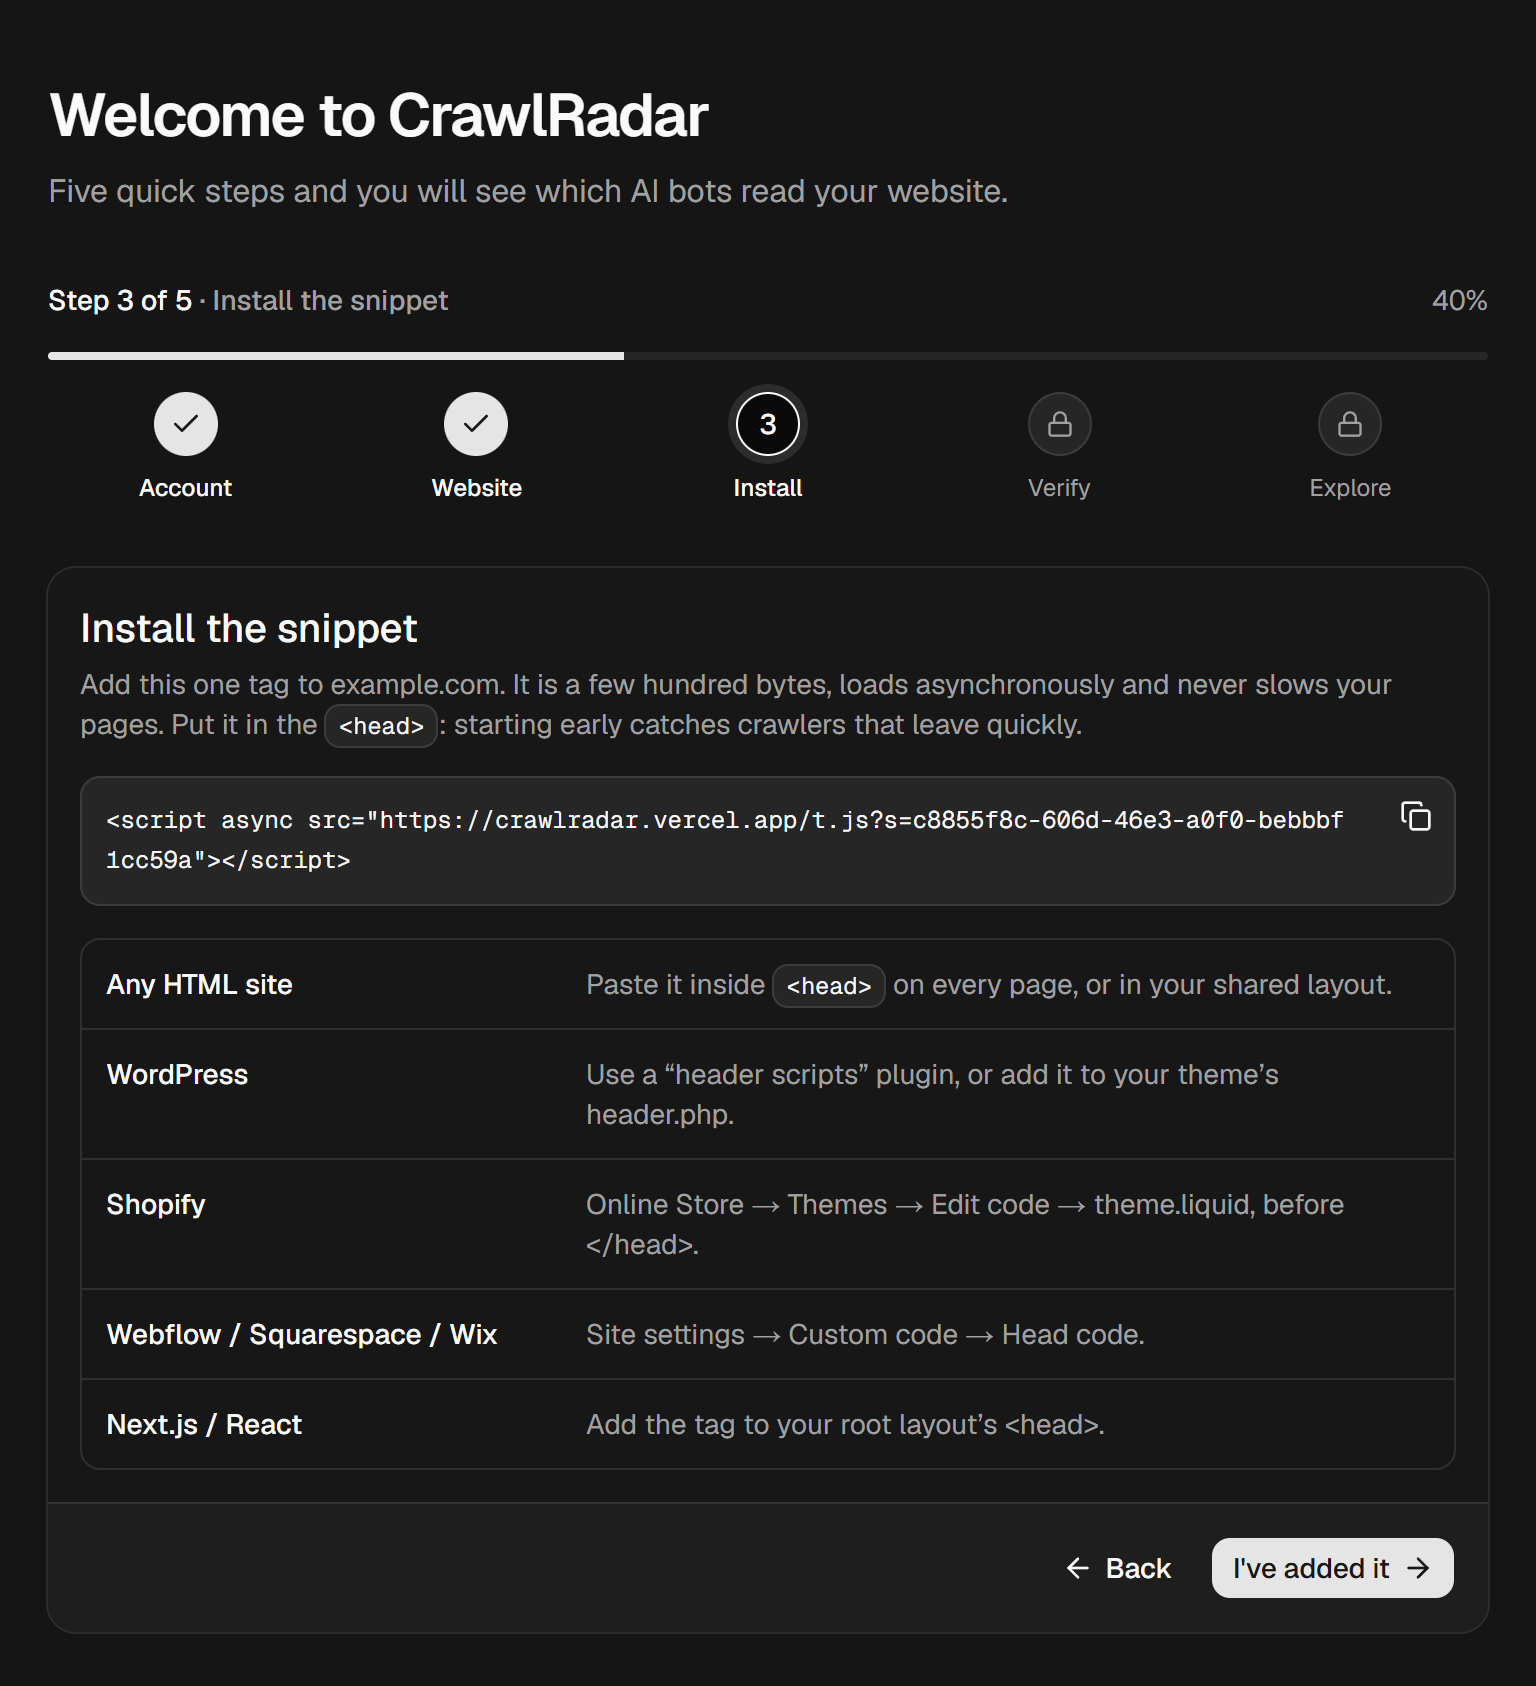
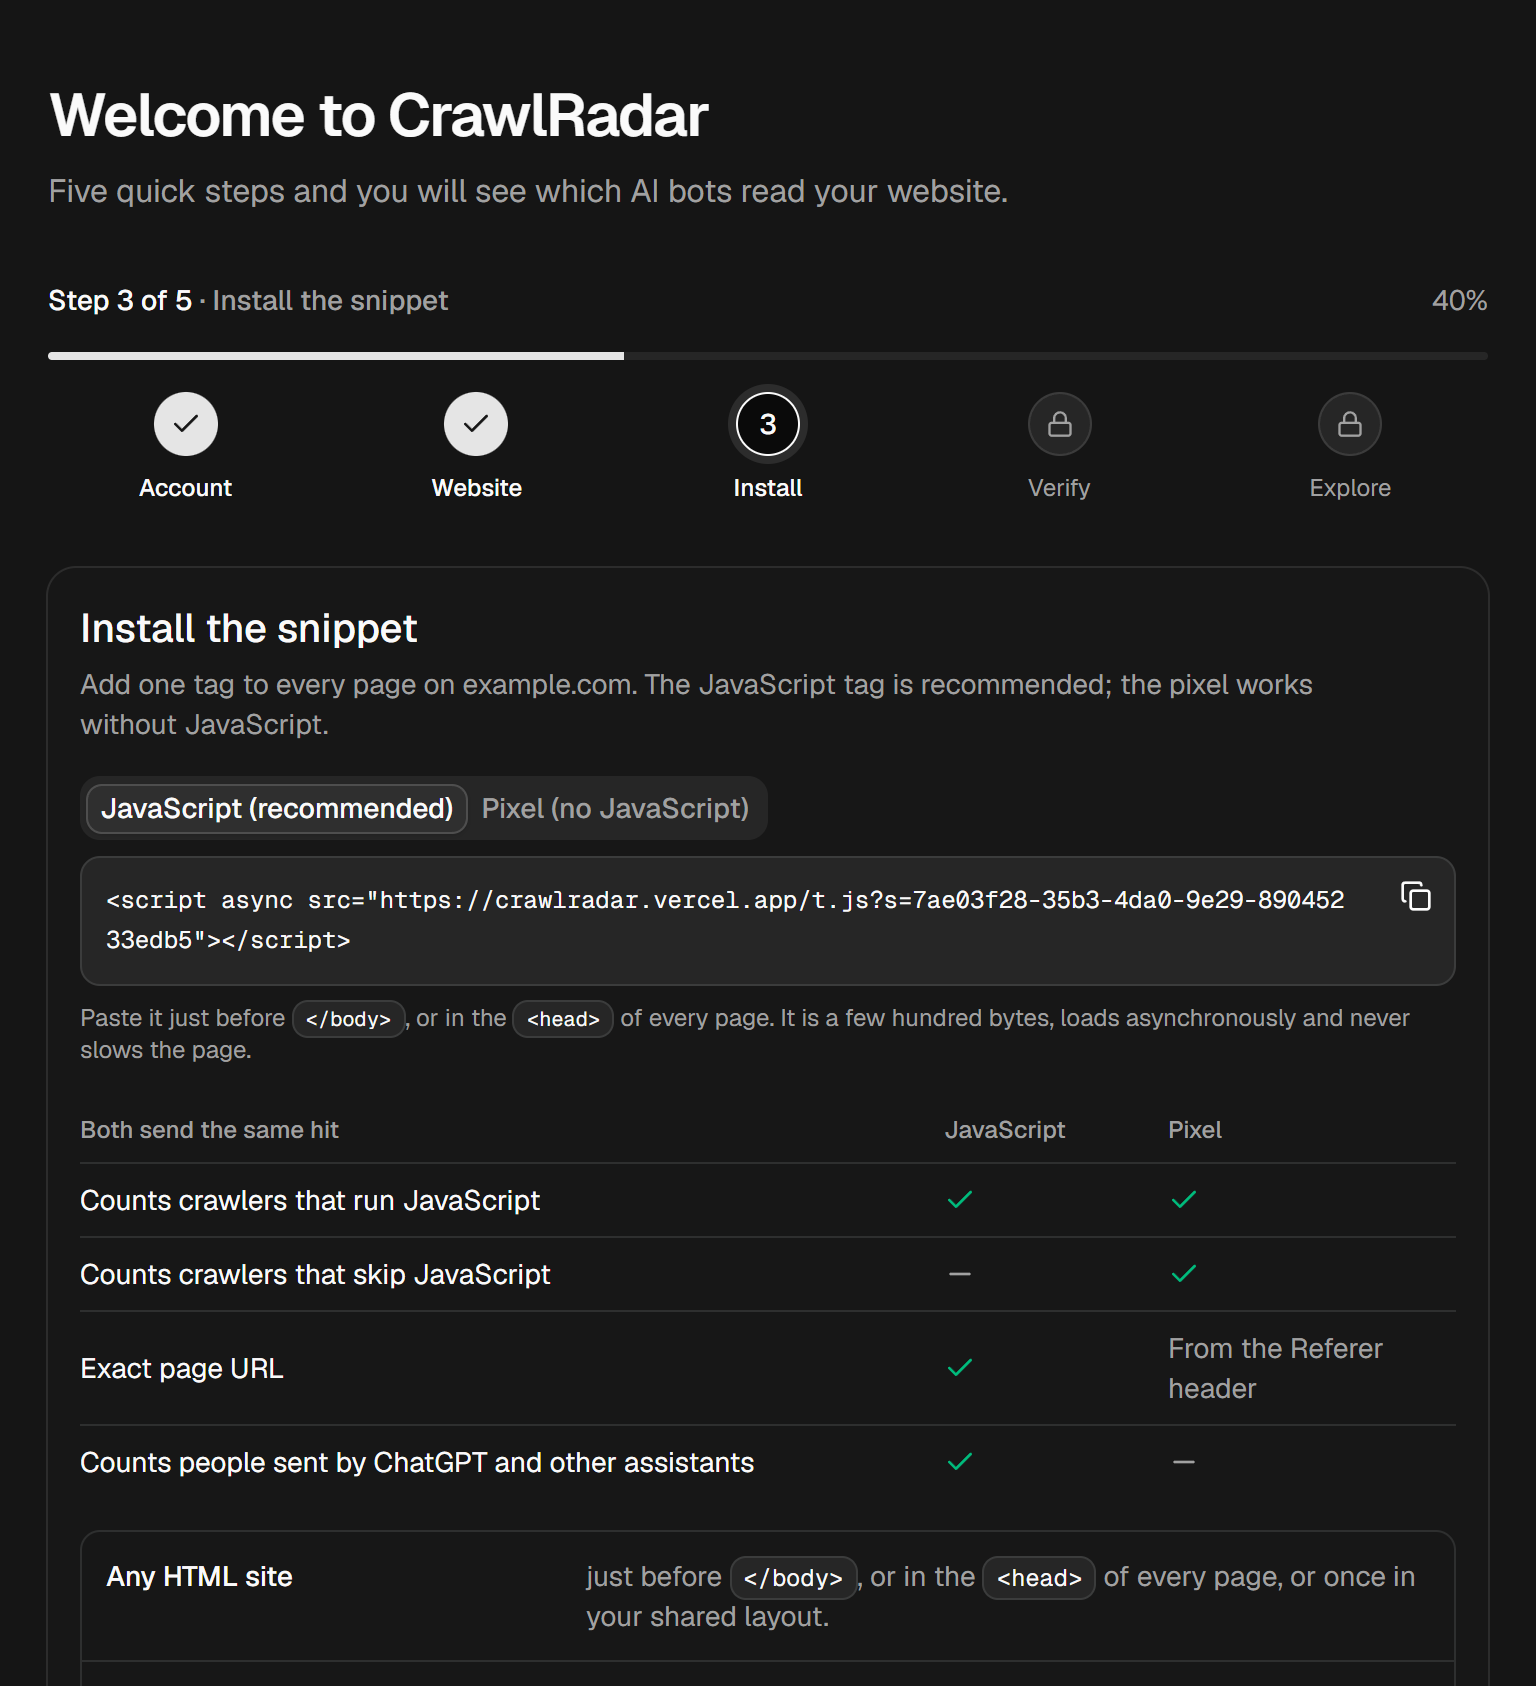
docs: two install methods, placement, endless log, new screenshots

diff --git a/README.md b/README.md
@@ -27,7 +27,7 @@ Regular analytics tools filter bots out. But AI platforms now read the web aroun
 
 ## Features
 
-- **One-line install.** A single async `<script>` tag served from your own CrawlRadar domain. The tracker is about 400 bytes and never blocks the page. An optional `<noscript>` pixel also counts crawlers that don't run JavaScript.
+- **One-line install, two ways.** An async `<script>` tag (about 400 bytes, never blocks the page) or a plain pixel for sites and crawlers without JavaScript. Paste it just before `</body>`, or in the `<head>`.
 - **Guided onboarding.** Five locked steps (account, website, install, verify, explore) with a progress tracker and install tips for WordPress, Shopify, Webflow and frameworks. The dashboard unlocks once the snippet is seen working.
 - **Every AI crawler, classified.** 60+ AI bots grouped by platform and purpose (training, search, assistant), cross-checked with the community [ai.robots.txt](https://github.com/ai-robots-txt/ai.robots.txt) list. That includes Chinese AI platforms: DeepSeek, Qwen and Tongyi (Alibaba), Kimi (Moonshot AI), Doubao (Bytedance), ERNIE (Baidu), Hunyuan (Tencent) and ChatGLM (Zhipu AI). Any other bot is caught by [isbot](https://github.com/omrilotan/isbot) and flagged `Unknown`, named from its user agent.
 - **Search engines alongside.** Googlebot, Bingbot, Baiduspider, YandexBot and others are recorded as their own type, and kept out of the AI totals.
@@ -153,40 +153,46 @@ Local URLs:
 
 ## Install the tracker on your site
 
-Sign up and onboarding walks you through it: add your domain, paste the one tag it gives you into the `<head>` of every page, and open your site once. The dashboard unlocks as soon as the snippet reports in. Add more sites later from **Sites**; each one's snippet, CSV export and removal live in the dashboard's **Settings** view.
+Sign up and onboarding walks you through it: add your domain, add one tag to every page, and open your site once. The dashboard unlocks as soon as the tag reports in. Add more sites later from **Sites**; each one's tags, CSV export and removal live in the dashboard's **Settings** view.
+
+There are two ways to install. Both send the same hit, so pick one.
+
+**JavaScript (recommended).** Paste it just before `</body>`, or in the `<head>`, of every page:
 
 ```html
 <script async src="https://<your-crawlradar>/t.js?s=<site-id>"></script>
 ```
 
+**Pixel (no JavaScript).** Paste it just before `</body>` of every page:
+
+```html
+<img
+  src="https://<your-crawlradar>/api/collect?t=img&sid=<site-id>"
+  alt=""
+  width="1"
+  height="1"
+  style="position:absolute"
+  referrerpolicy="no-referrer-when-downgrade"
+/>
+```
+
+|                                                    | JavaScript | Pixel                   |
+| -------------------------------------------------- | ---------- | ----------------------- |
+| Counts crawlers that run JavaScript                | Yes        | Yes                     |
+| Counts crawlers that skip JavaScript               | No         | Yes                     |
+| Exact page URL                                     | Yes        | From the Referer header |
+| Counts people sent by ChatGPT and other assistants | Yes        | No                      |
+
+The PRD calls for a "tracking pixel (JS SDK)". The JavaScript tag is exactly that: about 400 bytes that send the visit as a 1×1 image request. The plain pixel is the same request without the script. To use both, wrap the pixel in `<noscript>` so visits aren't counted twice.
+
+**Head or before `</body>`?** Either works, and `async` means the script never blocks rendering. Before `</body>` keeps the head clean; the head starts a little earlier. Both placements, and the pixel on its own, are covered by an end-to-end test that loads a real page as GPTBot and checks the visit arrives.
+
 <picture>
   <source media="(prefers-color-scheme: dark)" srcset="docs/images/install-dark.png">
-  <img alt="Settings: the one-line snippet, the no-JavaScript pixel, CSV export, details and removal" src="docs/images/install-light.png" width="720">
+  <img alt="Settings: the JavaScript tag and the pixel, what each records, CSV export, details and removal" src="docs/images/install-light.png" width="720">
 </picture>
 
 The site shows **"Last hit ..."** with a live dot as soon as the first event lands. Until then the dashboard listens with a live empty state, then switches to charts on its own.
-
-<details>
-<summary>Optional: count crawlers that don't run JavaScript</summary>
-
-Some crawlers fetch images but never run scripts. Settings has a **Pixel only** tab with a second tag for them:
-
-```html
-<noscript
-  ><img
-    src="https://<your-crawlradar>/api/collect?t=img&sid=<site-id>"
-    alt=""
-    width="1"
-    height="1"
-    referrerpolicy="no-referrer-when-downgrade"
-/></noscript>
-```
-
-Without a script, the page comes from the Referer header, which the `referrerpolicy` asks the browser to send in full. Server-side tracking, which sees every request, is on the roadmap.
-
-**Head or footer?** Both work, and `async` means neither blocks rendering. The `<head>` is better: it starts earlier, so it also catches crawlers that leave before the page finishes loading.
-
-</details>
 
 ## Security and privacy
 
@@ -199,13 +205,13 @@ Without a script, the page comes from the Referer header, which the `referrerpol
 
 ## Testing
 
-| Suite                     | Command                     | What it covers                                                                                                                                                                                                                              |
-| ------------------------- | --------------------------- | ------------------------------------------------------------------------------------------------------------------------------------------------------------------------------------------------------------------------------------------- |
-| Lint and format           | `pnpm lint` / `pnpm format` | Biome formatting, import order and lint rules, cognitive complexity of at most 10 per function, functions of at most 120 lines, and no hand-written source file over 200 lines                                                              |
-| Unit (Vitest)             | `pnpm test`                 | Bot, search-engine and referrer classifier (every listed bot), stats engine, pages and platform tables, CSV writer, install check, filters, demo data, collect endpoint                                                                     |
-| Coverage                  | `pnpm test:coverage`        | 100% of statements, branches, functions and lines in that code. CI fails below 100%                                                                                                                                                         |
-| End-to-end (Playwright)   | `pnpm test:e2e`             | Onboarding (locked app, five steps, resume), every dashboard view, filters, reports, pagination, CSV export, site switching and removal, account isolation, snippet spoofing, the home page and its demo, social previews and phone layouts |
-| Database security (pgTAP) | `pnpm db:test`              | Row-level security between accounts: two users with the same domain, cross-account reads, writes, renames, deletes and anonymous access                                                                                                     |
+| Suite                     | Command                     | What it covers                                                                                                                                                                                                                                                                                    |
+| ------------------------- | --------------------------- | ------------------------------------------------------------------------------------------------------------------------------------------------------------------------------------------------------------------------------------------------------------------------------------------------- |
+| Lint and format           | `pnpm lint` / `pnpm format` | Biome formatting, import order and lint rules, cognitive complexity of at most 10 per function, functions of at most 120 lines, and no hand-written source file over 200 lines                                                                                                                    |
+| Unit (Vitest)             | `pnpm test`                 | Bot, search-engine and referrer classifier (every listed bot), stats engine, pages and platform tables, CSV writer, install check, filters, demo data, collect endpoint                                                                                                                           |
+| Coverage                  | `pnpm test:coverage`        | 100% of statements, branches, functions and lines in that code. CI fails below 100%                                                                                                                                                                                                               |
+| End-to-end (Playwright)   | `pnpm test:e2e`             | Onboarding (locked app, five steps, resume), every dashboard view, filters, reports, the endless activity log, both install methods, the theme switch, CSV export, site switching and removal, account isolation, snippet spoofing, the home page and its demo, social previews and phone layouts |
+| Database security (pgTAP) | `pnpm db:test`              | Row-level security between accounts: two users with the same domain, cross-account reads, writes, renames, deletes and anonymous access                                                                                                                                                           |
 
 End-to-end tests run against a production build and the local Supabase stack. Run `pnpm db:start` first.
 

diff --git a/docs/PRD.md b/docs/PRD.md
@@ -177,7 +177,7 @@ Tests: **unit** = Vitest (100% coverage of the logic), **e2e** = Playwright, **d
 | FR-3.3 | Overview (top 10) and Pages view (all)                                    |                                                                                                                                                                                      |
 | FR-3.4 | [`traffic-chart.tsx`](../apps/web/components/dashboard/traffic-chart.tsx) | Hourly for 24h, daily otherwise; split by platform or by type                                                                                                                        |
 | FR-3.5 | [`filters.tsx`](../apps/web/components/dashboard/filters.tsx)             | Range, platform and type, kept in the URL; also page and platform reports                                                                                                            |
-| FR-3.6 | Overview (latest 10) and **Activity log** view                            | The log is paginated (50 per page), filterable, and shows user agent and referrer                                                                                                    |
+| FR-3.6 | Overview (latest 10) and **Activity log** view                            | The log loads as you scroll (batches of 50), is filterable, and shows user agent and referrer                                                                                        |
 | FR-4.1 | [`/export`](<../apps/web/app/(app)/export/route.ts>)                      | Written with [PapaParse](https://www.papaparse.com/); pages past the 1,000-row API limit; neutralises spreadsheet formulas                                                           |
 
 ### Views (7.1) and install flow (7.2)
@@ -190,7 +190,7 @@ Tests: **unit** = Vitest (100% coverage of the logic), **e2e** = Playwright, **d
 | Activity log                         | `/dashboard/activity`  |
 | Settings (snippet, CSV export, site) | `/dashboard/settings`  |
 
-The install flow is the onboarding at `/onboarding`: sign up, add a domain, copy the generated snippet (with the site ID), paste it into the `<head>`, then the first visit to the site unlocks the dashboard. The check also looks for the tag in the site's HTML.
+The install flow is the onboarding at `/onboarding`: sign up, add a domain, copy the generated tag (with the site ID), paste it just before `</body>` or in the `<head>`, then the first visit to the site unlocks the dashboard. The check also looks for the tag in the site's HTML. The views appear once the first visit is recorded.
 
 ### Acceptance criteria
 
@@ -210,15 +210,16 @@ The install flow is the onboarding at `/onboarding`: sign up, add a domain, copy
 
 ### Risks
 
-| Risk                        | What was done                                                                                                                              |
-| --------------------------- | ------------------------------------------------------------------------------------------------------------------------------------------ |
-| Bots may not run JavaScript | An optional `<noscript>` pixel counts crawlers that fetch images; the README documents the rest and server-side tracking is on the roadmap |
-| Signatures change           | Partial, case-insensitive matching, a list checked against ai.robots.txt, and isbot for anything new                                       |
-| High volume                 | Only bot and referral hits are stored; indexes on `(site_id, timestamp)`; the upgrade path is in the README                                |
+| Risk                        | What was done                                                                                                                                                                                  |
+| --------------------------- | ---------------------------------------------------------------------------------------------------------------------------------------------------------------------------------------------- |
+| Bots may not run JavaScript | Two install methods: the JavaScript tag, or a plain pixel that also counts crawlers which fetch images but skip scripts. The README documents the rest; server-side tracking is on the roadmap |
+| Signatures change           | Partial, case-insensitive matching, a list checked against ai.robots.txt, and isbot for anything new                                                                                           |
+| High volume                 | Only bot and referral hits are stored; indexes on `(site_id, timestamp)`; the upgrade path is in the README                                                                                    |
 
 ### Deliberate differences
 
-- **The beacon is a GET image request, not a POST.** It needs no CORS preflight and works the same for the `<noscript>` pixel.
+- **The beacon is a GET image request, not a POST.** The JavaScript tag (the PRD's "tracking pixel (JS SDK)") sends the visit as a 1×1 image request, and a plain `<img>` pixel sends the same request without JavaScript. Both are offered side by side, with what each one records. No CORS preflight is needed.
+- **The activity log scrolls endlessly** (keyset batches of 50, loaded before you reach the end) instead of pages.
 - **AI referrals were added.** People arriving from ChatGPT, Perplexity, Claude, Gemini, DeepSeek, Kimi, Qwen and others are tracked as their own type, `referral`.
 - **Search engines were added.** Googlebot, Bingbot, Baiduspider, YandexBot and others are stored as `search_engine`, shown alongside, and kept out of the "AI crawler" totals.
 - **The schema was hardened:** `timestamptz`, `not null` and check constraints, cascading deletes, a `referrer` column, `sites.installed_at` for onboarding, and insert, delete and column-limited update policies.
